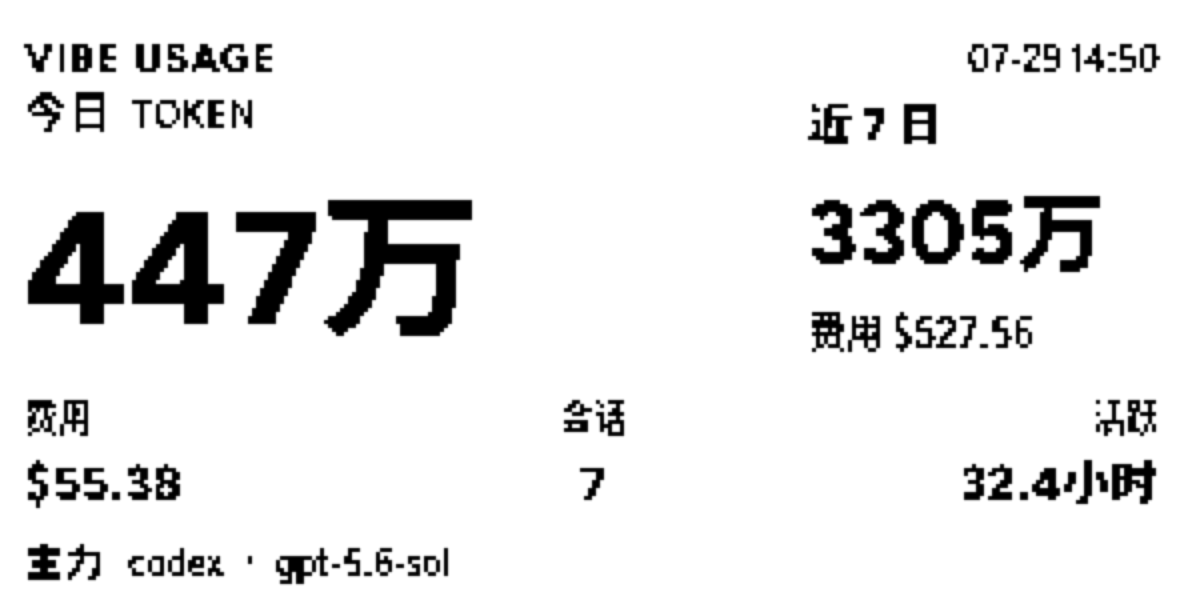
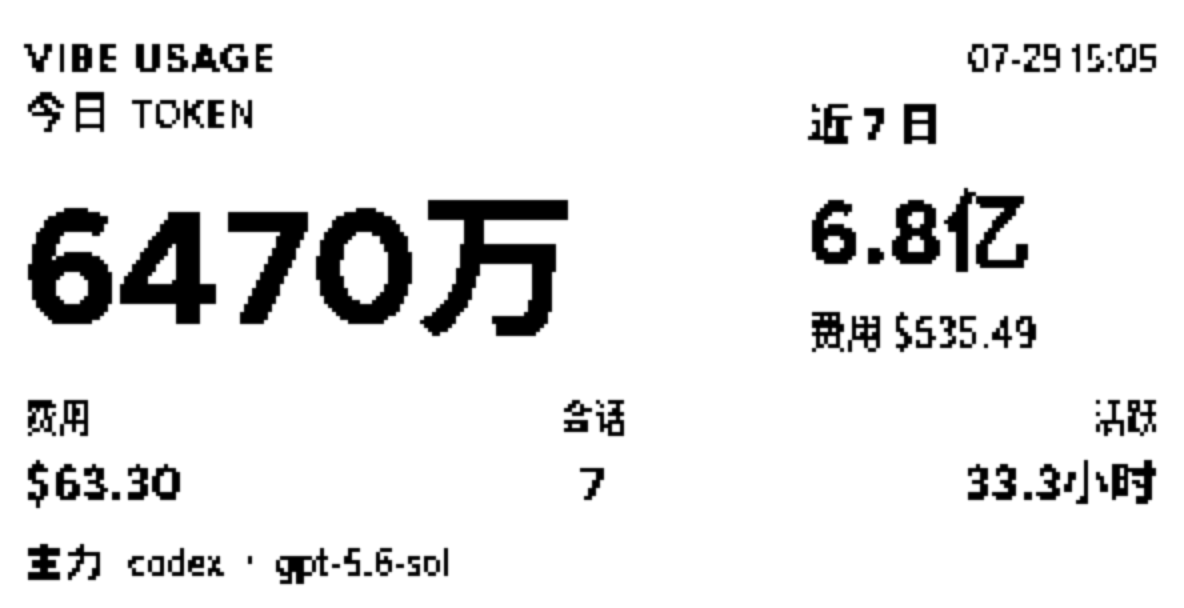
fix: include cached tokens in usage totals

diff --git a/test/aggregate-canvas.test.js b/test/aggregate-canvas.test.js
@@ -24,11 +24,11 @@ test('精确聚合今日与近 7 日六项总览', () => {
       weekCost: summary.week.estimatedCost,
     },
     {
-      todayTokens: 3_500,
+      todayTokens: 13_000,
       todayCost: 0.35,
       todaySessions: 2,
       todayActiveSeconds: 2_700,
-      weekTokens: 30_000,
+      weekTokens: 51_000,
       weekCost: 3.01,
     },
   );
@@ -37,18 +37,18 @@ test('精确聚合今日与近 7 日六项总览', () => {
 test('Top 3 工具按 Token 降序且同工具合并', () => {
   const summary = aggregateUsage(todayUsage, weekUsage);
   assert.deepEqual(summary.week.topTools, [
+    { name: 'Copilot', tokens: 23_000 },
     { name: 'Claude Code', tokens: 11_000 },
-    { name: 'Cursor', tokens: 8_000 },
-    { name: 'Aider', tokens: 7_000 },
+    { name: 'Cursor', tokens: 9_000 },
   ]);
 });
 
 test('Top 3 模型按 Token 降序且同模型合并', () => {
   const summary = aggregateUsage(todayUsage, weekUsage);
   assert.deepEqual(summary.week.topModels, [
-    { name: 'sonnet', tokens: 13_000 },
+    { name: 'gpt', tokens: 23_000 },
+    { name: 'sonnet', tokens: 14_000 },
     { name: 'deepseek', tokens: 7_000 },
-    { name: 'opus', tokens: 6_000 },
   ]);
 });
 
@@ -65,8 +65,8 @@ test('空数据生成明确的暂无数据画面', () => {
 test('畸形数值不会产生 NaN、负数或 Infinity', () => {
   const malformed = {
     buckets: [
-      { source: 'X', model: 'A', totalTokens: NaN, estimatedCost: Infinity },
-      { source: 'Y', model: 'B', totalTokens: -9, estimatedCost: -3 },
+      { source: 'X', model: 'A', totalTokens: NaN, cachedInputTokens: Infinity, estimatedCost: Infinity },
+      { source: 'Y', model: 'B', totalTokens: -9, cachedInputTokens: -5, estimatedCost: -3 },
       null,
     ],
     sessions: [{ activeSeconds: -1 }, { activeSeconds: 'not-a-number' }, null],
@@ -78,6 +78,23 @@ test('畸形数值不会产生 NaN、负数或 Infinity', () => {
   assert.equal(aggregate.activeSeconds, 0);
   assert.equal(aggregate.sessionCount, 2);
   assert.doesNotMatch(serialized, /NaN|Infinity/);
+});
+
+test('总 Token 与缓存 Token 的极端累加保持有限', () => {
+  const aggregate = aggregateWindow({
+    buckets: [
+      {
+        source: 'X',
+        model: 'A',
+        totalTokens: Number.MAX_VALUE,
+        cachedInputTokens: Number.MAX_VALUE,
+        estimatedCost: 0,
+      },
+    ],
+    sessions: [],
+  });
+  assert.equal(aggregate.totalTokens, Number.MAX_VALUE);
+  assert.equal(Number.isFinite(aggregate.totalTokens), true);
 });
 
 test('Canvas 合同固定且只含白名单元素', () => {
@@ -103,7 +120,7 @@ test('Canvas 合同固定且只含白名单元素', () => {
 
 test('精简画面只保留一个主力工具与模型', () => {
   const payload = buildCanvasPayload(aggregateUsage(todayUsage, weekUsage), new Date('2026-07-28T04:00:00Z'));
-  assert.equal(payload.data.primaryUsage, 'Claude Code · sonnet');
+  assert.equal(payload.data.primaryUsage, 'Copilot · gpt');
   assert.equal(Object.keys(payload.data).filter((key) => /^tool|^model/.test(key)).length, 0);
 });
 

diff --git a/test/fixtures/usage.js b/test/fixtures/usage.js
@@ -1,9 +1,30 @@
 export const todayUsage = {
   hasAnyData: true,
   buckets: [
-    { source: 'Claude Code', model: 'opus', project: 'private-alpha', totalTokens: 1_000, estimatedCost: 0.1 },
-    { source: 'Cursor', model: 'sonnet', project: 'private-beta', totalTokens: 2_000, estimatedCost: 0.2 },
-    { source: 'Claude Code', model: 'haiku', project: 'private-alpha', totalTokens: 500, estimatedCost: 0.05 },
+    {
+      source: 'Claude Code',
+      model: 'opus',
+      project: 'private-alpha',
+      totalTokens: 1_000,
+      cachedInputTokens: 9_000,
+      estimatedCost: 0.1,
+    },
+    {
+      source: 'Cursor',
+      model: 'sonnet',
+      project: 'private-beta',
+      totalTokens: 2_000,
+      cachedInputTokens: 0,
+      estimatedCost: 0.2,
+    },
+    {
+      source: 'Claude Code',
+      model: 'haiku',
+      project: 'private-alpha',
+      totalTokens: 500,
+      cachedInputTokens: 500,
+      estimatedCost: 0.05,
+    },
   ],
   sessions: [
     { activeSeconds: 1_800, project: 'private-alpha' },
@@ -14,12 +35,54 @@ export const todayUsage = {
 export const weekUsage = {
   hasAnyData: true,
   buckets: [
-    { source: 'Claude Code', model: 'opus', project: 'private-alpha', totalTokens: 6_000, estimatedCost: 1.2 },
-    { source: 'Cursor', model: 'sonnet', project: 'private-beta', totalTokens: 8_000, estimatedCost: 0.8 },
-    { source: 'Copilot', model: 'gpt', project: 'private-gamma', totalTokens: 3_000, estimatedCost: 0.3 },
-    { source: 'Claude Code', model: 'sonnet', project: 'private-alpha', totalTokens: 5_000, estimatedCost: 0.5 },
-    { source: 'Aider', model: 'deepseek', project: 'private-delta', totalTokens: 7_000, estimatedCost: 0.2 },
-    { source: 'Continue', model: 'llama', project: 'private-epsilon', totalTokens: 1_000, estimatedCost: 0.01 },
+    {
+      source: 'Claude Code',
+      model: 'opus',
+      project: 'private-alpha',
+      totalTokens: 6_000,
+      cachedInputTokens: 0,
+      estimatedCost: 1.2,
+    },
+    {
+      source: 'Cursor',
+      model: 'sonnet',
+      project: 'private-beta',
+      totalTokens: 8_000,
+      cachedInputTokens: 1_000,
+      estimatedCost: 0.8,
+    },
+    {
+      source: 'Copilot',
+      model: 'gpt',
+      project: 'private-gamma',
+      totalTokens: 3_000,
+      cachedInputTokens: 20_000,
+      estimatedCost: 0.3,
+    },
+    {
+      source: 'Claude Code',
+      model: 'sonnet',
+      project: 'private-alpha',
+      totalTokens: 5_000,
+      cachedInputTokens: 0,
+      estimatedCost: 0.5,
+    },
+    {
+      source: 'Aider',
+      model: 'deepseek',
+      project: 'private-delta',
+      totalTokens: 7_000,
+      cachedInputTokens: 0,
+      estimatedCost: 0.2,
+    },
+    {
+      source: 'Continue',
+      model: 'llama',
+      project: 'private-epsilon',
+      totalTokens: 1_000,
+      cachedInputTokens: 0,
+      estimatedCost: 0.01,
+    },
   ],
   sessions: [
     { activeSeconds: 3_600, project: 'private-alpha' },

diff --git a/src/aggregate.js b/src/aggregate.js
@@ -3,6 +3,15 @@ function finiteNonNegative(value) {
   return Number.isFinite(number) && number > 0 ? number : 0;
 }
 
+function addFiniteNonNegative(total, value) {
+  const increment = finiteNonNegative(value);
+  return total >= Number.MAX_VALUE - increment ? Number.MAX_VALUE : total + increment;
+}
+
+function bucketTotalTokens(bucket) {
+  return addFiniteNonNegative(finiteNonNegative(bucket?.totalTokens), bucket?.cachedInputTokens);
+}
+
 function compactDecimal(value, decimals = 1) {
   return Number(value.toFixed(decimals)).toString();
 }
@@ -18,7 +27,7 @@ function aggregateRanking(buckets, key) {
   for (const bucket of buckets) {
     if (!bucket || typeof bucket !== 'object') continue;
     const name = truncateText(bucket[key], 24);
-    totals.set(name, (totals.get(name) ?? 0) + finiteNonNegative(bucket.totalTokens));
+    totals.set(name, addFiniteNonNegative(totals.get(name) ?? 0, bucketTotalTokens(bucket)));
   }
   return [...totals.entries()]
     .map(([name, tokens]) => ({ name, tokens }))
@@ -33,7 +42,7 @@ export function aggregateWindow(response) {
   let estimatedCost = 0;
   for (const bucket of buckets) {
     if (!bucket || typeof bucket !== 'object') continue;
-    totalTokens += finiteNonNegative(bucket.totalTokens);
+    totalTokens = addFiniteNonNegative(totalTokens, bucketTotalTokens(bucket));
     estimatedCost += finiteNonNegative(bucket.estimatedCost);
   }
   let activeSeconds = 0;

diff --git a/src/vibe.js b/src/vibe.js
@@ -12,7 +12,7 @@ export function validateUsageResponse(value) {
 
   for (const [index, bucket] of value.buckets.entries()) {
     if (!isRecord(bucket)) throw new InvalidResponseError(`bucket[${index}] 必须是对象`);
-    for (const field of ['source', 'model', 'totalTokens', 'estimatedCost']) {
+    for (const field of ['source', 'model', 'totalTokens', 'cachedInputTokens', 'estimatedCost']) {
       if (!(field in bucket)) throw new InvalidResponseError(`bucket[${index}] 缺少 ${field}`);
     }
   }

diff --git a/test/http-vibe.test.js b/test/http-vibe.test.js
@@ -20,6 +20,12 @@ test('Vibe bucket 必需字段缺失时失败', () => {
   assert.throws(() => validateUsageResponse(invalid), /totalTokens/);
 });
 
+test('Vibe bucket 缺少缓存 Token 字段时失败，避免静默少算', () => {
+  const invalid = structuredClone(todayUsage);
+  delete invalid.buckets[0].cachedInputTokens;
+  assert.throws(() => validateUsageResponse(invalid), /cachedInputTokens/);
+});
+
 test('HTTP 401 不重试', async () => {
   let calls = 0;
   await assert.rejects(

diff --git a/PROGRESS.md b/PROGRESS.md
@@ -249,3 +249,15 @@
 - 等待进入下一分钟后执行 `launchctl kickstart -k`：后台第 33 次运行 `last exit code=0`，Canvas POST 200、渲染状态变化、图片下载 200；最新画面更新时间 `07-29 14:50`。
 - launchd 仍为每 1800 秒运行，模板和系统 plist 均不含秘密；最新 `artifacts/quote0-render.png` 与 README 4×示例图已同步。
 - 功能完成条件已满足：Vibe 1/7 日真实数据、Canvas 2xx、90 秒内新渲染、296×152 黑白视觉、launchd exit 0、密钥扫描 0。严格流程层面仍保留 `BLOCKED.md` 中不可撤销的历史 `|| true` 违规记录。
+
+## 总 Token 包含缓存输入 Token（完成）
+
+- 用户面板 24H 数据对照确认根因：API `totalTokens=4,470,350`、`cachedInputTokens=50,700,856`，网页总量为两者之和 `55,171,206`（`55.2M`）；旧画板只累加 `totalTokens`，因此显示 `447万`。费用、会话和活跃时长与网页一致，排除账号、窗口和刷新口径错误。
+- 固定 fixture 加入真实 `cachedInputTokens` 字段，并让缓存量改变 Top 排名；今日/7 日总览、Top 3 工具、Top 3 模型和主力提示均精确断言包含缓存后的结果。Vibe 响应缺少该字段时现在明确失败，避免静默少算。
+- 先测试后修复：定向红测为 `16/21`、5 项失败，分别命中今日/7 日总量、工具排行、模型排行、主力提示和字段校验；实现修复后定向测试 `22/22`、0 skipped/todo。
+- 聚合统一使用 `totalTokens + cachedInputTokens`；今日、近 7 日及工具/模型排行采用同一口径。极端有限 Token 使用饱和加法保持有限，不产生 `Infinity`。
+- README 明确总 Token 包含缓存输入 Token；最新真机原图与 4×示例图已同步。
+- 全量门禁：`npm run build` exit 0；`npm test` 43/43、0 fail/cancelled/skipped/todo；`npm run security-check` 为 `unexpected_path_count=0`、`actual_secret_matches=0`。
+- 真实 `npm run dry-run` exit 0：Vibe 1/7 日均 HTTP 200；当次今日 `64,702,170 tokens / $63.298567 / 7 sessions / 119,861 activeSeconds`，近 7 日 `675,270,675 tokens / $535.485851`，payload 不含项目名或秘密。
+- 第一次真实推送 Canvas POST HTTP 200，但 90 秒内渲染未变化，未误报成功；设备随后仍通过 `doctor` 可用检查。第二次推送 exit 0：Canvas POST HTTP 200、渲染状态变化、图片下载 HTTP 200。
+- 最新真机图为 `296×152`、黑白、墨点覆盖 `8.9%`、边缘墨点 0；实际查看显示今日 `6470万`、近 7 日 `6.8亿`，费用、会话、活跃时长和主力行均无重叠、截断或越界。

diff --git a/README.md b/README.md
@@ -1,6 +1,6 @@
 # vibe-usage-quote0
 
-把 Vibe Usage 云端的真实 AI 编码用量，稳定推送到 Quote/0 的 296×152 黑白桌面画板。画面突出今日 Token，并显示今日费用、会话数、活跃时长、近 7 日 Token/费用，以及一个主力工具和模型提示；不会发送项目名。
+把 Vibe Usage 云端的真实 AI 编码用量，稳定推送到 Quote/0 的 296×152 黑白桌面画板。画面突出今日 Token，并显示今日费用、会话数、活跃时长、近 7 日 Token/费用，以及一个主力工具和模型提示；不会发送项目名。总 Token 与网页面板口径一致，包含缓存输入 Token。
 
 ![Vibe Usage 在 Quote/0 上的用量画板示例](artifacts/quote0-render-4x.png)
 
